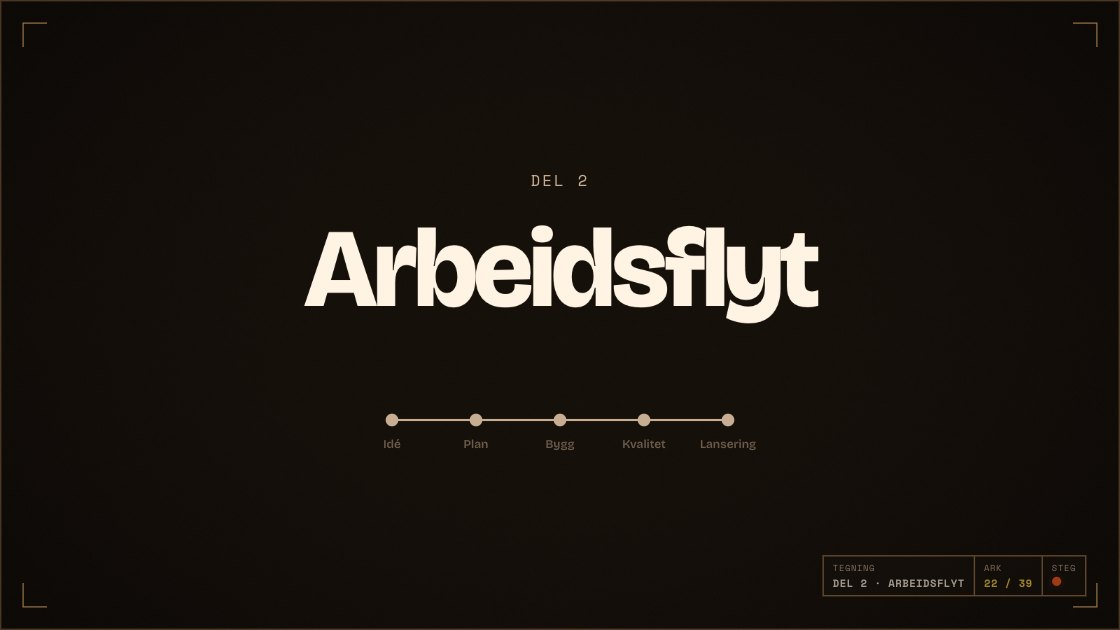
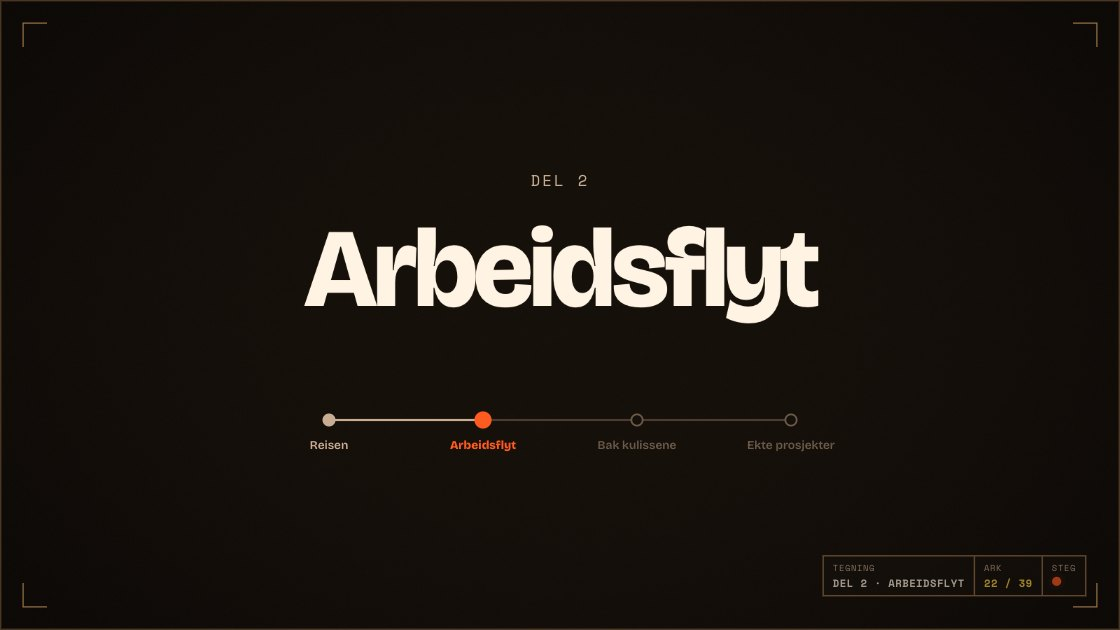
Part dividers show the talk's parts, not the journey's stages

Changed region(s): [[0.4062, 0.6333, 0.75, 0.7238], [0.2812, 0.6635, 0.375, 0.7238]]

diff --git a/src/slides/chapter.js b/src/slides/chapter.js
@@ -61,10 +61,11 @@ export function chapter(k) {
 }
 
 /*
-  Part divider for what comes after the journey (Arbeidsflyt, Bak kulissene): the name, and
-  the finished journey as a small line underneath, all stations filled.
+  Part divider for what comes after the journey (Arbeidsflyt, Bak kulissene, Ekte prosjekter):
+  the name, and the talk's parts as a small line underneath. Parts behind us are filled, this
+  one is lit, later ones wait. parts = every part's name, the journey first.
 */
-export function part(n, name) {
+export function part(n, name, parts = ['Reisen', name]) {
   return {
     id: `del-${n}`,
     title: `Del ${n} · ${name}`,
@@ -85,13 +86,16 @@ export function part(n, name) {
         stage.particles.morphTo(shapes.scatter(stage), { duration: 2, turbulence: 0.3 });
         stage.fly({ pos: [0, 0, 14], look: [0, 0, 0], duration: 2 });
         tl.add(fx.rise(nm, { stagger: 0.03 }), 0);
-        // the journey behind us: small, all stations filled
-        const x0 = 560, x1 = 1040, y = 600, sxx = (j) => x0 + (j * (x1 - x0)) / (STAGES.length - 1);
+        // where we are in the talk: the parts as a small line
+        const cur = n - 1;
+        const x0 = 470, x1 = 1130, y = 600, sxx = (j) => x0 + (j * (x1 - x0)) / Math.max(1, parts.length - 1);
         const g = D.g(svg, { 'data-unit': '' });
-        D.p(g, `M${x0} ${y} H${x1}`, '', { style: 'fill: none; stroke: var(--muted)', 'stroke-width': 3, 'stroke-linecap': 'round', 'data-bg': '' });
-        STAGES.forEach((s2, j) => {
-          D.el('circle', { cx: sxx(j), cy: y, r: 8, style: 'fill: var(--muted); stroke: var(--muted)', 'stroke-width': 2 }, g);
-          D.text(g, sxx(j), y + 40, s2, 'pst', { 'text-anchor': 'middle', style: 'font: 600 17px var(--font-display); fill: #6b5a48' });
+        D.p(g, `M${x0} ${y} H${x1}`, '', { style: 'fill: none; stroke: #4a3c30', 'stroke-width': 3, 'stroke-linecap': 'round', 'data-bg': '' });
+        D.p(g, `M${x0} ${y} H${sxx(cur)}`, '', { style: 'fill: none; stroke: var(--muted)', 'stroke-width': 3, 'stroke-linecap': 'round', 'data-bg': '' });
+        parts.forEach((p2, j) => {
+          const now = j === cur, past = j < cur;
+          D.el('circle', { cx: sxx(j), cy: y, r: now ? 11 : 8, style: now ? 'fill: var(--accent); stroke: var(--accent)' : past ? 'fill: var(--muted); stroke: var(--muted)' : 'fill: var(--bg, #120905); stroke: #6b5a48', 'stroke-width': 2.5 }, g);
+          D.text(g, sxx(j), y + 42, p2, 'pst', { 'text-anchor': 'middle', style: `font: ${now ? 700 : 600} 17px var(--font-display); fill: ${now ? 'var(--accent)' : past ? 'var(--muted)' : '#6b5a48'}` });
         });
         tl.fromTo(g, { opacity: 0 }, { opacity: 1, duration: 0.5 }, 0.4);
         return tl;

diff --git a/src/slides/index.js b/src/slides/index.js
@@ -58,7 +58,7 @@ export const slides = [
   title,
   opening, // cold open: the idea, and where it ended up
   ...STAGED.flatMap((group, k) => [chapter(k), ...group.map((s) => Object.assign(s, { stage: k }))]),
-  ...PARTS.flatMap((p, k) => [part(k + 2, p.name), ...p.slides.map((s) => Object.assign(s, { part: p.name }))]),
+  ...PARTS.flatMap((p, k) => [part(k + 2, p.name, ['Reisen', ...PARTS.map((q) => q.name)]), ...p.slides.map((s) => Object.assign(s, { part: p.name }))]),
   takeaways, // closing: every standalone tip on one page
 ];
 
